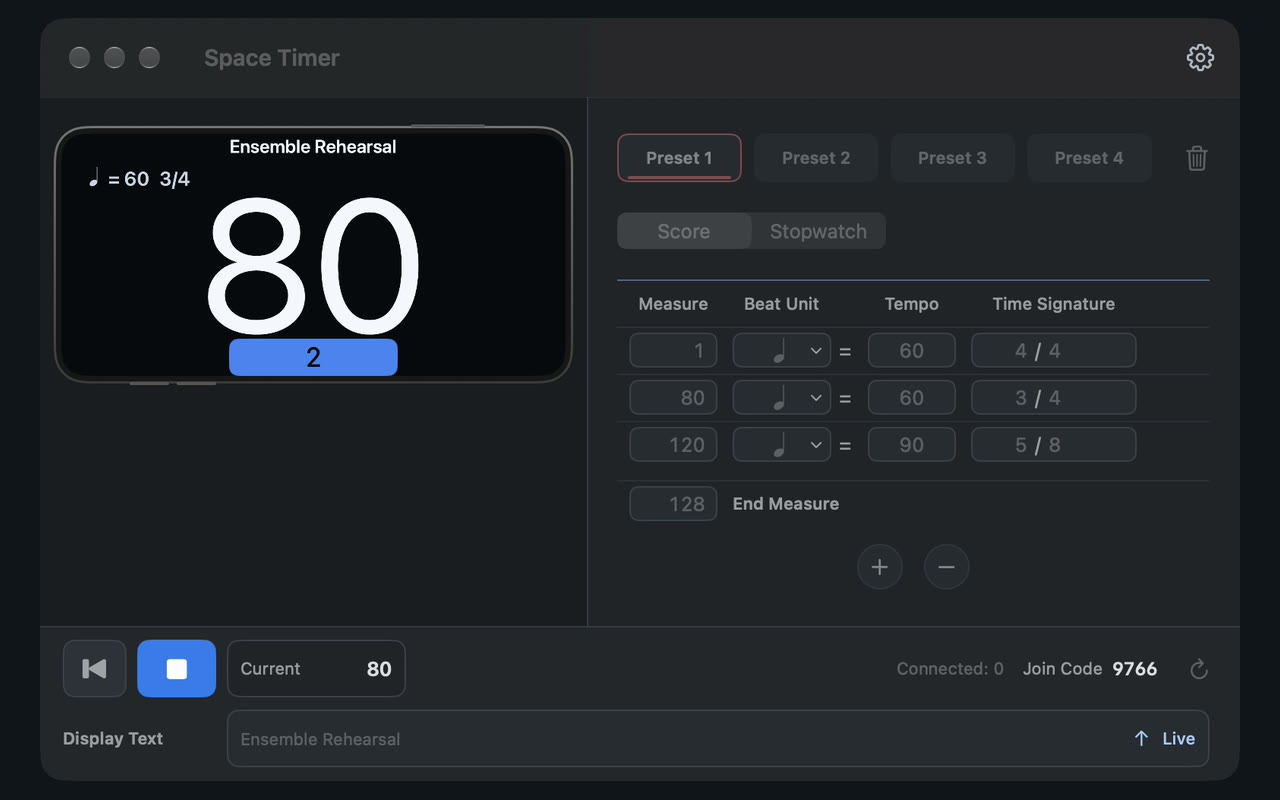
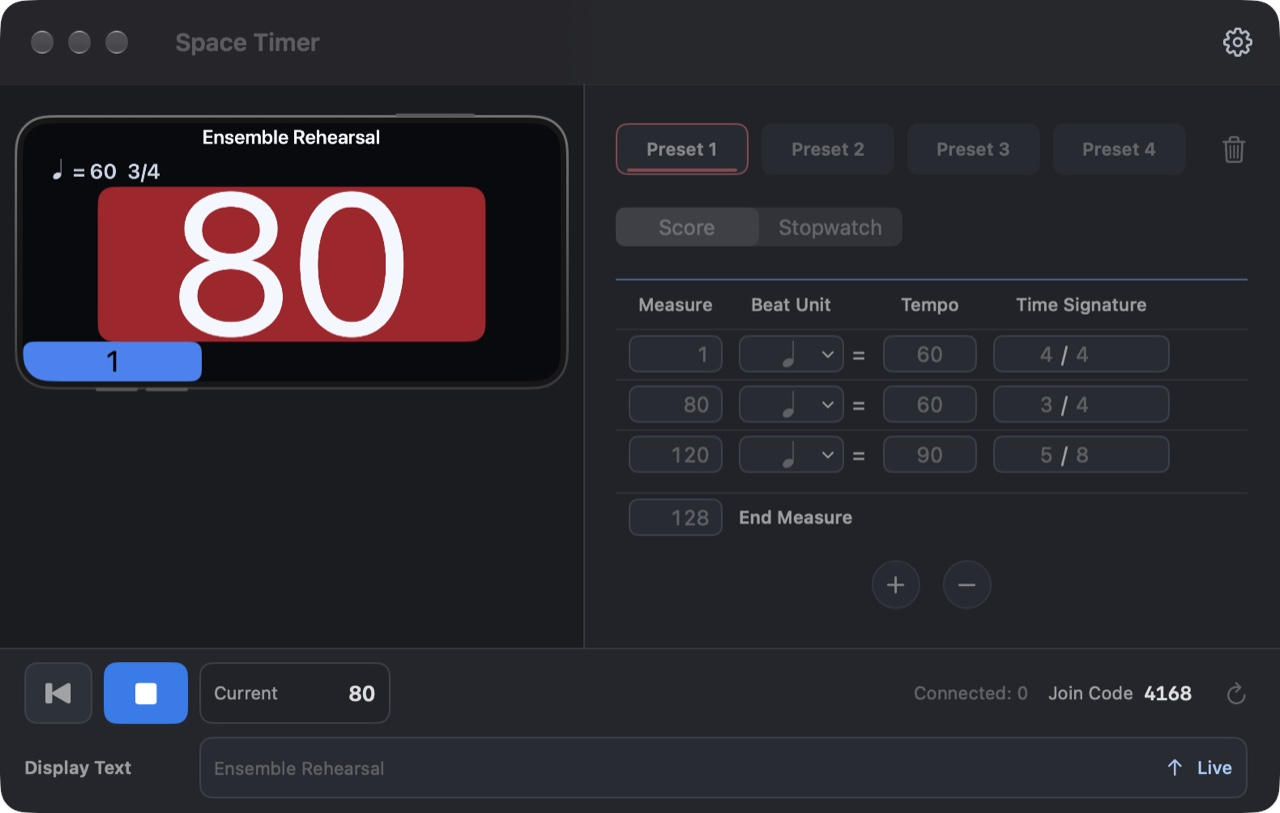
Refresh Space Timer screenshots and correct preset privacy copy

diff --git a/index.html b/index.html
@@ -1,1 +1,1 @@
-<!doctype html><html lang="en"><head><meta charset="utf-8"><meta name="viewport" content="width=device-width, initial-scale=1"><title>Composer · Hyunsuk Jun</title><meta name="description" content="Compositions and tools for musical practice by composer Hyunsuk Jun." ><meta property="og:title" content="Composer · Hyunsuk Jun"><meta property="og:description" content="Compositions and tools for musical practice by composer Hyunsuk Jun."><meta property="og:type" content="website"><link rel="canonical" href="https://hyunsukjun.github.io/"><meta property="og:url" content="https://hyunsukjun.github.io/"><link rel="icon" href="assets/favicon.svg" type="image/svg+xml"><link rel="stylesheet" href="assets/style.css?v=20261114-app-directory-two"></head><body><a class="skip" href="#main">Skip to content</a><div class="wrap"><header><a class="brand" href="index.html">Hyunsuk Jun</a><nav aria-label="Main navigation"><a href="about/index.html">About</a></nav></header><main id="main"><section class="home-hero" id="home"><h1 class="visually-hidden">Hyunsuk Jun</h1><img class="sound-art" src="assets/resonance.svg" width="1180" height="320" alt="An abstract drawing of gently bending, layered lines."></section><section class="directory" id="directory" aria-label="Explore"><details class="home-section" id="works"><summary class="entry-row"><h2>Works</h2><p>Compositions</p><span class="plus" aria-hidden="true"></span></summary><div class="home-panel"><ul class="repertoire-list" id="performance-archive" role="list"><li class="repertoire-row"><strong>ANATOMY I</strong><span class="repertoire-versions"> — Tape music <span class="repertoire-date">· <time datetime="2025-09-28">2025-09-28</time></span></span></li><li class="repertoire-row"><strong>Le tre parole più strane</strong><span class="repertoire-versions"> — A cappella choir (S, S, A, A, T, T, B, B) <span class="repertoire-date">· <time datetime="2025-09-19">2025-09-19</time></span></span></li><li class="repertoire-row"><strong>The last question</strong><span class="repertoire-versions"> — Multimedia music theatre <span class="repertoire-date">· <time datetime="2025-09-01">2025-09-01</time></span></span></li><li class="repertoire-row"><strong>Orbit</strong><span class="repertoire-versions"> — Large chamber ensemble and electronics <span class="repertoire-date">· <time datetime="2024-09-08">2024-09-08</time></span></span></li><li class="repertoire-row"><strong>TOCCATA</strong><span class="repertoire-versions"> — Piano and live electronics <span class="repertoire-date">· <time datetime="2024-07-07">2024-07-07</time></span></span></li><li class="repertoire-row"><strong>Edge of Needle II</strong><span class="repertoire-versions"> — Vibraphone and electronics <span class="repertoire-date">· <time datetime="2024-05-15">2024-05-15</time></span></span></li><li class="repertoire-row"><strong>Fragmented Colours</strong><span class="repertoire-versions"> — Sheng and live electronics <span class="repertoire-date">· <time datetime="2023-10-20">2023-10-20</time></span></span></li><li class="repertoire-row"><strong>The Typewriter</strong><span class="repertoire-versions"> — Solo snare drum and electronics <span class="repertoire-date">· <time datetime="2022-11-12">2022-11-12</time></span></span></li><li class="repertoire-row"><strong>LICHTFLUSS</strong><span class="repertoire-versions"> — String orchestra <span class="repertoire-date">· <time datetime="2021-09-30">2021-09-30</time></span></span></li><li class="repertoire-row"><strong>Diffused Dots</strong><span class="repertoire-versions"> — String quartet <span class="repertoire-date">· <time datetime="2021-09-07">2021-09-07</time></span></span></li><li class="repertoire-row"><strong>Der Wanderer</strong><span class="repertoire-versions"> — Four clarinets <span class="repertoire-date">· <time datetime="2021-01-30">2021-01-30</time></span></span></li><li class="repertoire-row"><strong>The Bird in the Forest</strong><span class="repertoire-versions"> — Clarinet and live electronics <span class="repertoire-date">· <time datetime="2019-11-29">2019-11-29</time></span> / Solo clarinet <span class="repertoire-date">· <time datetime="2018-11-07">2018-11-07</time></span></span></li><li class="repertoire-row"><strong>NUNU</strong><span class="repertoire-versions"> — Harpsichord trio, toy instruments and live electronics <span class="repertoire-date">· <time datetime="2019-10-10">2019-10-10</time></span></span></li><li class="repertoire-row"><strong>De Tuin der Lusten</strong><span class="repertoire-versions"> — Ensemble <span class="repertoire-date">· <time datetime="2018-11-06">2018-11-06</time></span></span></li><li class="repertoire-row"><strong>VISTARA</strong><span class="repertoire-versions"> — Orchestra <span class="repertoire-date">· <time datetime="2018-05-25">2018-05-25</time></span></span></li><li class="repertoire-row"><strong>The Garden of Kronos</strong><span class="repertoire-versions"> — Mezzo-soprano, percussion and electronics <span class="repertoire-date">· <time datetime="2018-05-09">2018-05-09</time></span></span></li><li class="repertoire-row"><strong>NALDA</strong><span class="repertoire-versions"> — String quartet <span class="repertoire-date">· <time datetime="2018-04-25">2018-04-25</time></span></span></li><li class="repertoire-row"><strong>Labor lapsus</strong><span class="repertoire-versions"> — Tape music <span class="repertoire-date">· <time datetime="2017-10-17">2017-10-17</time></span> / String quartet <span class="repertoire-date">· <time datetime="2012-11-06">2012-11-06</time></span></span></li><li class="repertoire-row"><strong>Der Schatten des Wassertropfens</strong><span class="repertoire-versions"> — Ensemble <span class="repertoire-date">· <time datetime="2017-09-23">2017-09-23</time></span></span></li><li class="repertoire-row"><strong>Das stille Haus</strong><span class="repertoire-versions"> — Solo organ <span class="repertoire-date">· <time datetime="2016-06-27">2016-06-27</time></span></span></li><li class="repertoire-row"><strong>aus dem Dunkel</strong><span class="repertoire-versions"> — Tape music <span class="repertoire-date">· <time datetime="2015-11-20">2015-11-20</time></span></span></li><li class="repertoire-row"><strong>Papilio ulysses</strong><span class="repertoire-versions"> — Violin and four-channel tape <span class="repertoire-date">· <time datetime="2014-10-16">2014-10-16</time></span></span></li><li class="repertoire-row"><strong>The Scattered fragments</strong><span class="repertoire-versions"> — Chamber symphony for solo violin and 11 instruments <span class="repertoire-date">· <time datetime="2014-05-31">2014-05-31</time></span></span></li><li class="repertoire-row"><strong>Clotho</strong><span class="repertoire-versions"> — Piano trio and tape <span class="repertoire-date">· <time datetime="2012-10-27">2012-10-27</time></span></span></li></ul></div></details><details class="home-section" id="tools"><summary class="entry-row"><h2>Tools</h2><p>Small tools for music and performance.</p><span class="plus" aria-hidden="true"></span></summary><div class="home-panel"><article class="tool-card"><figure><a href="space-timer/index.html"><img src="assets/space-timer-host-score-clean.jpg?v=20261114-host-score" width="1280" height="800" alt="Space Timer Host on Mac with the score editor and a performer preview showing measure 80, beat 2."></a></figure><div><h3>Space Timer</h3><p class="eyebrow">In preparation</p><p>A shared view of measures and beats for rehearsals and performances.</p><p class="small muted">A Mac host and performer displays for iPhone and iPad. Two free companion apps, currently in preparation.</p><div class="links"><a href="space-timer/index.html">Overview ↗</a><a href="space-timer/support/index.html">Support →</a><a href="space-timer/privacy/index.html">Privacy Policy</a></div></div></article><article class="tool-card"><figure><img src="assets/curvelab-hub-workspace.jpg" width="1280" height="720" alt="CurveLab Hub showing six Lab tabs, a source waveform, and the Audio speed curve editor."></figure><div><h3>CurveLab Hub</h3><p>A browser workspace for exploring and processing sound.</p><div class="links"><a href="https://hyunsukjun.github.io/curvelab-hub/">Open CurveLab Hub ↗</a></div></div></article></div></details></section></main><footer class="footer"><div class="footer-links"><a href="support/index.html">App Support</a><a href="privacy/index.html">Privacy</a><a href="about/index.html#contact">Contact</a></div></footer></div></body></html>
+<!doctype html><html lang="en"><head><meta charset="utf-8"><meta name="viewport" content="width=device-width, initial-scale=1"><title>Composer · Hyunsuk Jun</title><meta name="description" content="Compositions and tools for musical practice by composer Hyunsuk Jun." ><meta property="og:title" content="Composer · Hyunsuk Jun"><meta property="og:description" content="Compositions and tools for musical practice by composer Hyunsuk Jun."><meta property="og:type" content="website"><link rel="canonical" href="https://hyunsukjun.github.io/"><meta property="og:url" content="https://hyunsukjun.github.io/"><link rel="icon" href="assets/favicon.svg" type="image/svg+xml"><link rel="stylesheet" href="assets/style.css?v=20261114-app-directory-two"></head><body><a class="skip" href="#main">Skip to content</a><div class="wrap"><header><a class="brand" href="index.html">Hyunsuk Jun</a><nav aria-label="Main navigation"><a href="about/index.html">About</a></nav></header><main id="main"><section class="home-hero" id="home"><h1 class="visually-hidden">Hyunsuk Jun</h1><img class="sound-art" src="assets/resonance.svg" width="1180" height="320" alt="An abstract drawing of gently bending, layered lines."></section><section class="directory" id="directory" aria-label="Explore"><details class="home-section" id="works"><summary class="entry-row"><h2>Works</h2><p>Compositions</p><span class="plus" aria-hidden="true"></span></summary><div class="home-panel"><ul class="repertoire-list" id="performance-archive" role="list"><li class="repertoire-row"><strong>ANATOMY I</strong><span class="repertoire-versions"> — Tape music <span class="repertoire-date">· <time datetime="2025-09-28">2025-09-28</time></span></span></li><li class="repertoire-row"><strong>Le tre parole più strane</strong><span class="repertoire-versions"> — A cappella choir (S, S, A, A, T, T, B, B) <span class="repertoire-date">· <time datetime="2025-09-19">2025-09-19</time></span></span></li><li class="repertoire-row"><strong>The last question</strong><span class="repertoire-versions"> — Multimedia music theatre <span class="repertoire-date">· <time datetime="2025-09-01">2025-09-01</time></span></span></li><li class="repertoire-row"><strong>Orbit</strong><span class="repertoire-versions"> — Large chamber ensemble and electronics <span class="repertoire-date">· <time datetime="2024-09-08">2024-09-08</time></span></span></li><li class="repertoire-row"><strong>TOCCATA</strong><span class="repertoire-versions"> — Piano and live electronics <span class="repertoire-date">· <time datetime="2024-07-07">2024-07-07</time></span></span></li><li class="repertoire-row"><strong>Edge of Needle II</strong><span class="repertoire-versions"> — Vibraphone and electronics <span class="repertoire-date">· <time datetime="2024-05-15">2024-05-15</time></span></span></li><li class="repertoire-row"><strong>Fragmented Colours</strong><span class="repertoire-versions"> — Sheng and live electronics <span class="repertoire-date">· <time datetime="2023-10-20">2023-10-20</time></span></span></li><li class="repertoire-row"><strong>The Typewriter</strong><span class="repertoire-versions"> — Solo snare drum and electronics <span class="repertoire-date">· <time datetime="2022-11-12">2022-11-12</time></span></span></li><li class="repertoire-row"><strong>LICHTFLUSS</strong><span class="repertoire-versions"> — String orchestra <span class="repertoire-date">· <time datetime="2021-09-30">2021-09-30</time></span></span></li><li class="repertoire-row"><strong>Diffused Dots</strong><span class="repertoire-versions"> — String quartet <span class="repertoire-date">· <time datetime="2021-09-07">2021-09-07</time></span></span></li><li class="repertoire-row"><strong>Der Wanderer</strong><span class="repertoire-versions"> — Four clarinets <span class="repertoire-date">· <time datetime="2021-01-30">2021-01-30</time></span></span></li><li class="repertoire-row"><strong>The Bird in the Forest</strong><span class="repertoire-versions"> — Clarinet and live electronics <span class="repertoire-date">· <time datetime="2019-11-29">2019-11-29</time></span> / Solo clarinet <span class="repertoire-date">· <time datetime="2018-11-07">2018-11-07</time></span></span></li><li class="repertoire-row"><strong>NUNU</strong><span class="repertoire-versions"> — Harpsichord trio, toy instruments and live electronics <span class="repertoire-date">· <time datetime="2019-10-10">2019-10-10</time></span></span></li><li class="repertoire-row"><strong>De Tuin der Lusten</strong><span class="repertoire-versions"> — Ensemble <span class="repertoire-date">· <time datetime="2018-11-06">2018-11-06</time></span></span></li><li class="repertoire-row"><strong>VISTARA</strong><span class="repertoire-versions"> — Orchestra <span class="repertoire-date">· <time datetime="2018-05-25">2018-05-25</time></span></span></li><li class="repertoire-row"><strong>The Garden of Kronos</strong><span class="repertoire-versions"> — Mezzo-soprano, percussion and electronics <span class="repertoire-date">· <time datetime="2018-05-09">2018-05-09</time></span></span></li><li class="repertoire-row"><strong>NALDA</strong><span class="repertoire-versions"> — String quartet <span class="repertoire-date">· <time datetime="2018-04-25">2018-04-25</time></span></span></li><li class="repertoire-row"><strong>Labor lapsus</strong><span class="repertoire-versions"> — Tape music <span class="repertoire-date">· <time datetime="2017-10-17">2017-10-17</time></span> / String quartet <span class="repertoire-date">· <time datetime="2012-11-06">2012-11-06</time></span></span></li><li class="repertoire-row"><strong>Der Schatten des Wassertropfens</strong><span class="repertoire-versions"> — Ensemble <span class="repertoire-date">· <time datetime="2017-09-23">2017-09-23</time></span></span></li><li class="repertoire-row"><strong>Das stille Haus</strong><span class="repertoire-versions"> — Solo organ <span class="repertoire-date">· <time datetime="2016-06-27">2016-06-27</time></span></span></li><li class="repertoire-row"><strong>aus dem Dunkel</strong><span class="repertoire-versions"> — Tape music <span class="repertoire-date">· <time datetime="2015-11-20">2015-11-20</time></span></span></li><li class="repertoire-row"><strong>Papilio ulysses</strong><span class="repertoire-versions"> — Violin and four-channel tape <span class="repertoire-date">· <time datetime="2014-10-16">2014-10-16</time></span></span></li><li class="repertoire-row"><strong>The Scattered fragments</strong><span class="repertoire-versions"> — Chamber symphony for solo violin and 11 instruments <span class="repertoire-date">· <time datetime="2014-05-31">2014-05-31</time></span></span></li><li class="repertoire-row"><strong>Clotho</strong><span class="repertoire-versions"> — Piano trio and tape <span class="repertoire-date">· <time datetime="2012-10-27">2012-10-27</time></span></span></li></ul></div></details><details class="home-section" id="tools"><summary class="entry-row"><h2>Tools</h2><p>Small tools for music and performance.</p><span class="plus" aria-hidden="true"></span></summary><div class="home-panel"><article class="tool-card"><figure><a href="space-timer/index.html"><img src="assets/space-timer-host-score-clean.jpg?v=20261114-downbeat" width="1280" height="813" alt="Space Timer Host on Mac with the score editor and a performer preview highlighting the first beat of measure 80."></a></figure><div><h3>Space Timer</h3><p class="eyebrow">In preparation</p><p>A shared view of measures and beats for rehearsals and performances.</p><p class="small muted">A Mac host and performer displays for iPhone and iPad. Two free companion apps, currently in preparation.</p><div class="links"><a href="space-timer/index.html">Overview ↗</a><a href="space-timer/support/index.html">Support →</a><a href="space-timer/privacy/index.html">Privacy Policy</a></div></div></article><article class="tool-card"><figure><img src="assets/curvelab-hub-workspace.jpg" width="1280" height="720" alt="CurveLab Hub showing six Lab tabs, a source waveform, and the Audio speed curve editor."></figure><div><h3>CurveLab Hub</h3><p>A browser workspace for exploring and processing sound.</p><div class="links"><a href="https://hyunsukjun.github.io/curvelab-hub/">Open CurveLab Hub ↗</a></div></div></article></div></details></section></main><footer class="footer"><div class="footer-links"><a href="support/index.html">App Support</a><a href="privacy/index.html">Privacy</a><a href="about/index.html#contact">Contact</a></div></footer></div></body></html>

diff --git a/projects/index.html b/projects/index.html
@@ -1,1 +1,1 @@
-<!doctype html><html lang="en"><head><meta charset="utf-8"><meta name="viewport" content="width=device-width, initial-scale=1"><title>Side Projects · Hyunsuk Jun</title><meta name="description" content="Side Projects — Works and projects by composer Hyunsuk Jun." ><meta property="og:title" content="Side Projects · Hyunsuk Jun"><meta property="og:description" content="Works and projects by composer Hyunsuk Jun."><meta property="og:type" content="website"><link rel="canonical" href="https://hyunsukjun.github.io/projects/"><meta property="og:url" content="https://hyunsukjun.github.io/projects/"><link rel="icon" href="../assets/favicon.svg" type="image/svg+xml"><link rel="stylesheet" href="../assets/style.css?v=20261114-app-directory-two"></head><body><a class="skip" href="#main">Skip to content</a><div class="wrap"><header><a class="brand" href="../index.html">Hyunsuk Jun</a><nav aria-label="Main navigation"><a href="../about/index.html">About</a></nav></header><main id="main"><div class="page-title"><h1>Tools</h1><p class="lede">Small tools for music and performance.</p></div><article class="tool-card"><figure><a href="../space-timer/index.html"><img src="../assets/space-timer-host-score-clean.jpg?v=20261114-host-score" width="1280" height="800" alt="Space Timer Host on Mac with the score editor and a performer preview showing measure 80, beat 2."></a></figure><div><h2>Space Timer</h2><p class="eyebrow">In preparation</p><p>A shared view of measures and beats for rehearsals and performances.</p><p class="small muted">A Mac host and performer displays for iPhone and iPad. Two free companion apps, currently in preparation.</p><div class="links"><a href="../space-timer/index.html">Overview ↗</a><a href="../space-timer/support/index.html">Support →</a><a href="../space-timer/privacy/index.html">Privacy Policy</a></div></div></article><article class="tool-card"><figure><img src="../assets/curvelab-hub-workspace.jpg" width="1280" height="720" alt="CurveLab Hub showing six Lab tabs, a source waveform, and the Audio speed curve editor."></figure><div><h2>CurveLab Hub</h2><p>A browser workspace for exploring and processing sound.</p><div class="links"><a href="https://hyunsukjun.github.io/curvelab-hub/">Open CurveLab Hub ↗</a></div></div></article></main><footer class="footer"><div class="footer-links"><a href="../support/index.html">App Support</a><a href="../privacy/index.html">Privacy</a><a href="../about/index.html#contact">Contact</a></div></footer></div></body></html>
+<!doctype html><html lang="en"><head><meta charset="utf-8"><meta name="viewport" content="width=device-width, initial-scale=1"><title>Side Projects · Hyunsuk Jun</title><meta name="description" content="Side Projects — Works and projects by composer Hyunsuk Jun." ><meta property="og:title" content="Side Projects · Hyunsuk Jun"><meta property="og:description" content="Works and projects by composer Hyunsuk Jun."><meta property="og:type" content="website"><link rel="canonical" href="https://hyunsukjun.github.io/projects/"><meta property="og:url" content="https://hyunsukjun.github.io/projects/"><link rel="icon" href="../assets/favicon.svg" type="image/svg+xml"><link rel="stylesheet" href="../assets/style.css?v=20261114-app-directory-two"></head><body><a class="skip" href="#main">Skip to content</a><div class="wrap"><header><a class="brand" href="../index.html">Hyunsuk Jun</a><nav aria-label="Main navigation"><a href="../about/index.html">About</a></nav></header><main id="main"><div class="page-title"><h1>Tools</h1><p class="lede">Small tools for music and performance.</p></div><article class="tool-card"><figure><a href="../space-timer/index.html"><img src="../assets/space-timer-host-score-clean.jpg?v=20261114-downbeat" width="1280" height="813" alt="Space Timer Host on Mac with the score editor and a performer preview highlighting the first beat of measure 80."></a></figure><div><h2>Space Timer</h2><p class="eyebrow">In preparation</p><p>A shared view of measures and beats for rehearsals and performances.</p><p class="small muted">A Mac host and performer displays for iPhone and iPad. Two free companion apps, currently in preparation.</p><div class="links"><a href="../space-timer/index.html">Overview ↗</a><a href="../space-timer/support/index.html">Support →</a><a href="../space-timer/privacy/index.html">Privacy Policy</a></div></div></article><article class="tool-card"><figure><img src="../assets/curvelab-hub-workspace.jpg" width="1280" height="720" alt="CurveLab Hub showing six Lab tabs, a source waveform, and the Audio speed curve editor."></figure><div><h2>CurveLab Hub</h2><p>A browser workspace for exploring and processing sound.</p><div class="links"><a href="https://hyunsukjun.github.io/curvelab-hub/">Open CurveLab Hub ↗</a></div></div></article></main><footer class="footer"><div class="footer-links"><a href="../support/index.html">App Support</a><a href="../privacy/index.html">Privacy</a><a href="../about/index.html#contact">Contact</a></div></footer></div></body></html>

diff --git a/tools/index.html b/tools/index.html
@@ -1,1 +1,1 @@
-<!doctype html><html lang="en"><head><meta charset="utf-8"><meta name="viewport" content="width=device-width, initial-scale=1"><title>Tools · Hyunsuk Jun</title><meta name="description" content="Tools — Works and projects by composer Hyunsuk Jun." ><meta property="og:title" content="Tools · Hyunsuk Jun"><meta property="og:description" content="Works and projects by composer Hyunsuk Jun."><meta property="og:type" content="website"><link rel="canonical" href="https://hyunsukjun.github.io/tools/"><meta property="og:url" content="https://hyunsukjun.github.io/tools/"><link rel="icon" href="../assets/favicon.svg" type="image/svg+xml"><link rel="stylesheet" href="../assets/style.css?v=20261114-app-directory-two"></head><body><a class="skip" href="#main">Skip to content</a><div class="wrap"><header><a class="brand" href="../index.html">Hyunsuk Jun</a><nav aria-label="Main navigation"><a href="../about/index.html">About</a></nav></header><main id="main"><div class="page-title"><h1>Tools</h1><p class="lede">Small tools for music and performance.</p></div><article class="tool-card"><figure><a href="../space-timer/index.html"><img src="../assets/space-timer-host-score-clean.jpg?v=20261114-host-score" width="1280" height="800" alt="Space Timer Host on Mac with the score editor and a performer preview showing measure 80, beat 2."></a></figure><div><h2>Space Timer</h2><p class="eyebrow">In preparation</p><p>A shared view of measures and beats for rehearsals and performances.</p><p class="small muted">A Mac host and performer displays for iPhone and iPad. Two free companion apps, currently in preparation.</p><div class="links"><a href="../space-timer/index.html">Overview ↗</a><a href="../space-timer/support/index.html">Support →</a><a href="../space-timer/privacy/index.html">Privacy Policy</a></div></div></article><article class="tool-card"><figure><img src="../assets/curvelab-hub-workspace.jpg" width="1280" height="720" alt="CurveLab Hub showing six Lab tabs, a source waveform, and the Audio speed curve editor."></figure><div><h2>CurveLab Hub</h2><p>A browser workspace for exploring and processing sound.</p><div class="links"><a href="https://hyunsukjun.github.io/curvelab-hub/">Open CurveLab Hub ↗</a></div></div></article></main><footer class="footer"><div class="footer-links"><a href="../support/index.html">App Support</a><a href="../privacy/index.html">Privacy</a><a href="../about/index.html#contact">Contact</a></div></footer></div></body></html>
+<!doctype html><html lang="en"><head><meta charset="utf-8"><meta name="viewport" content="width=device-width, initial-scale=1"><title>Tools · Hyunsuk Jun</title><meta name="description" content="Tools — Works and projects by composer Hyunsuk Jun." ><meta property="og:title" content="Tools · Hyunsuk Jun"><meta property="og:description" content="Works and projects by composer Hyunsuk Jun."><meta property="og:type" content="website"><link rel="canonical" href="https://hyunsukjun.github.io/tools/"><meta property="og:url" content="https://hyunsukjun.github.io/tools/"><link rel="icon" href="../assets/favicon.svg" type="image/svg+xml"><link rel="stylesheet" href="../assets/style.css?v=20261114-app-directory-two"></head><body><a class="skip" href="#main">Skip to content</a><div class="wrap"><header><a class="brand" href="../index.html">Hyunsuk Jun</a><nav aria-label="Main navigation"><a href="../about/index.html">About</a></nav></header><main id="main"><div class="page-title"><h1>Tools</h1><p class="lede">Small tools for music and performance.</p></div><article class="tool-card"><figure><a href="../space-timer/index.html"><img src="../assets/space-timer-host-score-clean.jpg?v=20261114-downbeat" width="1280" height="813" alt="Space Timer Host on Mac with the score editor and a performer preview highlighting the first beat of measure 80."></a></figure><div><h2>Space Timer</h2><p class="eyebrow">In preparation</p><p>A shared view of measures and beats for rehearsals and performances.</p><p class="small muted">A Mac host and performer displays for iPhone and iPad. Two free companion apps, currently in preparation.</p><div class="links"><a href="../space-timer/index.html">Overview ↗</a><a href="../space-timer/support/index.html">Support →</a><a href="../space-timer/privacy/index.html">Privacy Policy</a></div></div></article><article class="tool-card"><figure><img src="../assets/curvelab-hub-workspace.jpg" width="1280" height="720" alt="CurveLab Hub showing six Lab tabs, a source waveform, and the Audio speed curve editor."></figure><div><h2>CurveLab Hub</h2><p>A browser workspace for exploring and processing sound.</p><div class="links"><a href="https://hyunsukjun.github.io/curvelab-hub/">Open CurveLab Hub ↗</a></div></div></article></main><footer class="footer"><div class="footer-links"><a href="../support/index.html">App Support</a><a href="../privacy/index.html">Privacy</a><a href="../about/index.html#contact">Contact</a></div></footer></div></body></html>

diff --git a/space-timer/privacy/index.html b/space-timer/privacy/index.html
@@ -5,7 +5,7 @@
 <p>The apps use local network access to discover and connect the Mac host and performer devices. Connected devices exchange the score, time signatures and tempos, playback and stopwatch state, and display text entered on the Mac. They also use connection identifiers, join authorization information, player numbers, network addressing information, and timing information to establish connections, reconnect, and synchronize playback.</p>
 <p>No online service account is required. The apps do not include advertising or usage analytics services, and they do not send your performance information to a server operated by the developer.</p></section>
 <section class="content-section"><h2>Information stored on your devices</h2><dl class="storage">
-<div><dt>Mac</dt><dd>Saved presets contain your score changes, ending measure, and display text. Changes to an active saved preset may also be saved when the host window closes or the app quits. The host also stores the editor size, language preference, join code, and authorization information used to reconnect performer devices.</dd></div>
+<div><dt>Mac</dt><dd>Saved presets contain the preset name, score changes, and ending measure. Changes to an active saved preset may also be saved when the host window closes or the app quits. The host also stores the editor size, language preference, join code, and authorization information used to reconnect performer devices.</dd></div>
 <div><dt>iPhone and iPad</dt><dd>Authorization information for reconnecting to the last approved host is stored in the device’s Keychain. Received scores and playback state are processed in memory while the app runs.</dd></div></dl>
 <p>Saved presets remain on the Mac until you delete them. Preferences and saved connection information may persist across app launches. These local app records are separate from support email and are not subject to the 90-day support retention period.</p></section>
 <section class="content-section"><h2>Delete presets and revoke access</h2><ul>

diff --git a/space-timer/index.html b/space-timer/index.html
@@ -7,8 +7,8 @@
       <button type="button" data-screen="1" aria-pressed="false">Mac Host</button>
     </div>
     <div class="app-screens-frame">
-      <img class="app-screenshot" src="../assets/score-preview.jpg" width="1100" height="506" alt="Space Timer on iPhone showing measure 80, a 3/4 time signature, quarter note equals 60, and beat 2.">
-      <img class="app-screenshot" src="../assets/space-timer-host-score-clean.jpg?v=20261114-host-score" width="1280" height="800" alt="Space Timer Host on Mac with the score editor and a performer preview showing measure 80, beat 2.">
+      <img class="app-screenshot" src="../assets/score-preview.jpg?v=20261114-downbeat" width="1434" height="660" alt="Space Timer on iPhone highlighting the first beat of measure 80 in 3/4 at quarter note equals 60.">
+      <img class="app-screenshot" src="../assets/space-timer-host-score-clean.jpg?v=20261114-downbeat" width="1280" height="813" alt="Space Timer Host on Mac with the score editor and a performer preview highlighting the first beat of measure 80.">
     </div>
   </section>
 </div>
